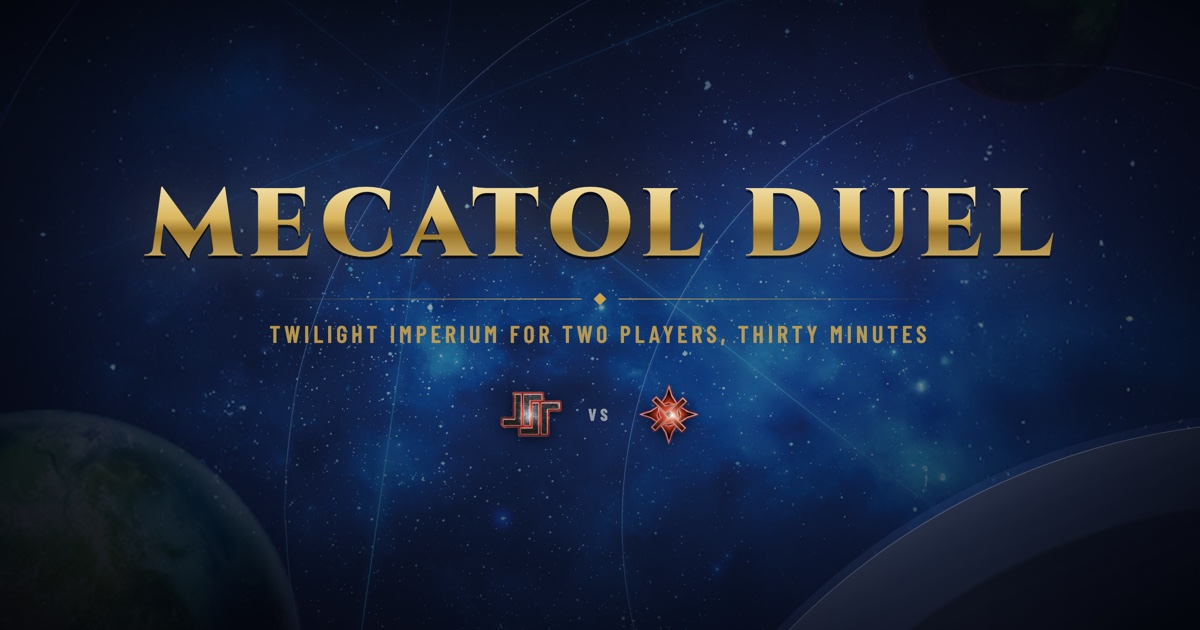
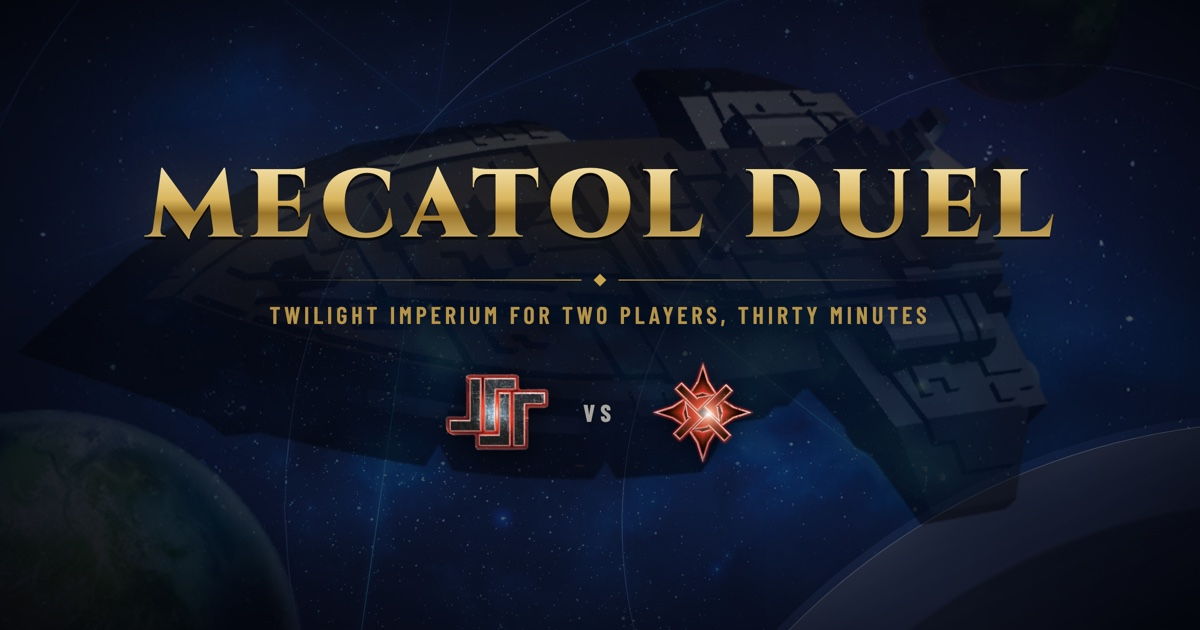
feat: a dreadnought behind the title on the social card, sigils large enough to read
Claude-Session: https://claude.ai/code/session_01Gyu9aksrS1c5EB9a4TG5DJ

diff --git a/tools/render/render-og.html b/tools/render/render-og.html
@@ -53,6 +53,11 @@ html,body{margin:0;background:#05070f}
 .limb::before{content:"";position:absolute;inset:-10px;border-radius:50%;
   background:radial-gradient(circle at 27% 23%,rgba(130,165,255,.30) 0%,rgba(120,160,255,.08) 30%,transparent 55%);
   -webkit-mask:radial-gradient(circle,transparent 61.5%,#000 62%)}
+/* the dreadnought sits behind the title, almost a silhouette: it reads as shape and scale, never as
+   something competing with the words in front of it */
+.ship{position:absolute;left:50%;top:52%;width:880px;transform:translate(-50%,-50%) rotate(40deg);
+  opacity:.6;filter:brightness(.38) saturate(.5) contrast(1.2) drop-shadow(0 0 50px rgba(0,0,0,.85))}
+.shipveil{position:absolute;inset:0;background:radial-gradient(ellipse 60% 46% at 50% 46%,rgba(4,6,14,.5),transparent 70%)}
 .vig{position:absolute;inset:0;background:
   radial-gradient(ellipse 70% 72% at 50% 46%,transparent 30%,rgba(3,5,12,.62) 72%,rgba(2,3,9,.9) 100%)}
 
@@ -71,9 +76,9 @@ h1{margin:0;font:900 96px/1 var(--display);letter-spacing:.085em;text-transform:
 .tagline{margin:18px 0 0;font:600 24px/1 var(--hud);letter-spacing:.16em;text-transform:uppercase;
   color:var(--gold);opacity:.9}
 /* the two factions, small enough to read as a footnote under the title */
-.vs{display:flex;align-items:center;gap:26px;margin-top:38px}
-.vs img{width:62px;height:62px;object-fit:contain;filter:drop-shadow(0 2px 6px rgba(0,0,0,.6))}
-.vs b{font:700 17px/1 var(--hud);letter-spacing:.24em;color:rgba(233,228,214,.62)}
+.vs{display:flex;align-items:center;gap:34px;margin-top:34px}
+.vs img{width:104px;height:104px;object-fit:contain;filter:drop-shadow(0 3px 10px rgba(0,0,0,.7))}
+.vs b{font:700 24px/1 var(--hud);letter-spacing:.24em;color:rgba(233,228,214,.7)}
 </style></head>
 <body><div class="card">
   <div class="base"></div><div class="stars"></div>
@@ -81,7 +86,10 @@ h1{margin:0;font:900 96px/1 var(--display);letter-spacing:.085em;text-transform:
   <div class="veil"></div><div class="dust"></div>
   <img class="bigplanet" src="../../public/assets/tiles/planet_Sakulag.png" alt="">
   <img class="farplanet" src="../../public/assets/tiles/planet_Quann.png" alt="">
-  <div class="limb"></div><div class="vig"></div>
+  <div class="limb"></div>
+  <img class="ship" src="../../public/assets/sprites/black_dreadnought.png" alt="">
+  <div class="shipveil"></div>
+  <div class="vig"></div>
   <div class="hero">
     <h1>Mecatol Duel</h1>
     <div class="rule"><span></span><i></i><span></span></div>
